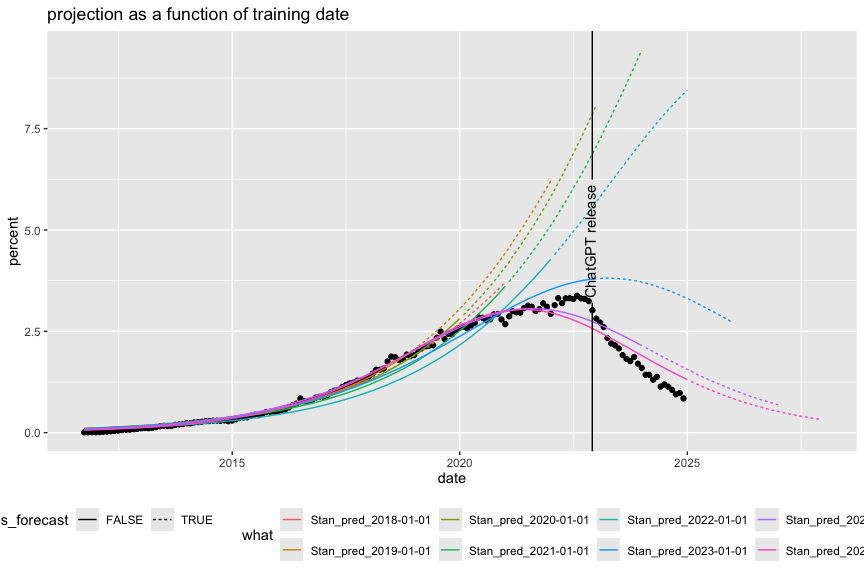
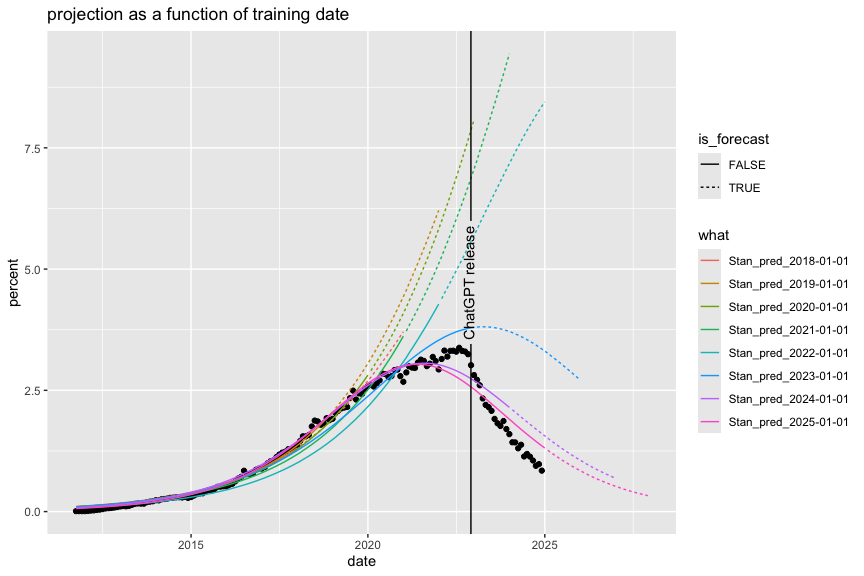
re-do graph

diff --git a/TimeSeries/Bass_model/Plot_Bass.md b/TimeSeries/Bass_model/Plot_Bass.md
@@ -30,7 +30,6 @@ ggplot(mapping = aes(x = date, y = percent)) +
       ),
       mapping = aes(xintercept = date, label = label),
     ) + 
-  theme(legend.position="bottom") +
   ggtitle("projection as a function of training date")
 ```
 
